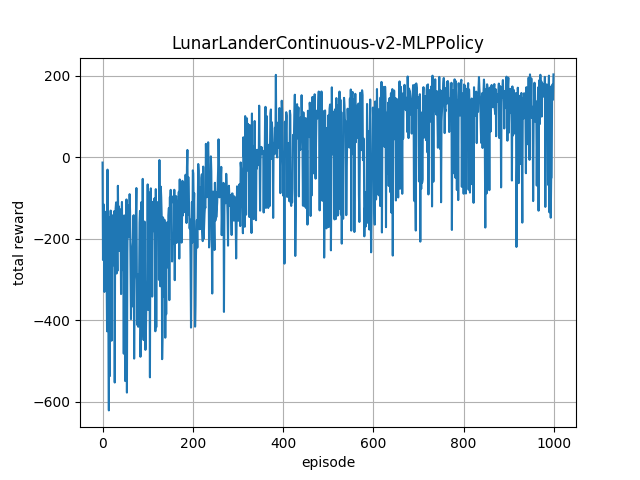
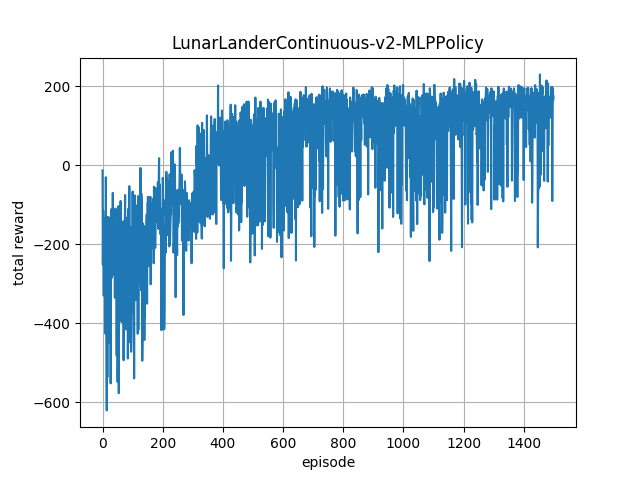
Tru new hyperparameter.

diff --git a/rl_toolbox/policy/shared.py b/rl_toolbox/policy/shared.py
@@ -57,20 +57,20 @@ class VAEPolicy(nn.Module):
         self.log_std_head = nn.Parameter(torch.zeros(output_shape[0]))
         self.value_head = nn.Linear(z_size, 1)
 
-        self.mean_head.apply(orthogonal_init([nn.Linear], 'linear'))
-        self.value_head.apply(orthogonal_init([nn.Linear], 'linear'))
+        # self.mean_head.apply(orthogonal_init([nn.Linear], 'linear'))
+        # self.value_head.apply(orthogonal_init([nn.Linear], 'linear'))
 
     def forward(self, x):
         with torch.no_grad():
             feature, _, _ = self.visual.encode(x)
 
-        mean = self.mean_head(feature)
+        mean = self.mean_head(feature.detach())
         std = self.log_std_head.expand_as(mean).exp()
 
         self.pd = Normal(mean, std)
         action = self.pd.sample() if self.training else mean
 
-        value = self.value_head(feature)
+        value = self.value_head(feature.detach())
 
         return action, value
 
@@ -123,7 +123,7 @@ class VAELSTMPolicy(nn.Module):
 
     @property
     def num_steps(self):
-        return 1
+        return 8
 
     @property
     def recurrent(self):
@@ -146,7 +146,7 @@ class CNNPolicy(nn.Module):
         self.mean_head = nn.Linear(size, output_shape[0])
         self.log_std_head = nn.Parameter(torch.zeros(output_shape[0]))
         self.value_head = nn.Linear(size, 1)
-        #
+
         # self.cnn.apply(orthogonal_init([nn.Linear], 'relu'))
         # self.mean_head.apply(orthogonal_init([nn.Linear], 'linear'))
         # self.value_head.apply(orthogonal_init([nn.Linear], 'linear'))
@@ -209,7 +209,7 @@ class CNNLSTMPolicy(nn.Module):
 
     @property
     def num_steps(self):
-        return 4
+        return 8
 
     @property
     def recurrent(self):
@@ -306,7 +306,7 @@ class MLPLSTMPolicy(nn.Module):
 
     @property
     def num_steps(self):
-        return 4
+        return 8
 
     @property
     def recurrent(self):

diff --git a/05_train_combined_policy.py b/05_train_combined_policy.py
@@ -1,31 +1,33 @@
 from rl_toolbox import Runner
 from rl_toolbox.agent import PPOAgent
-from rl_toolbox.policy import VAEPolicy, VAELSTMPolicy
+from rl_toolbox.policy import VAEPolicy
 
 
 def main():
-    for i in range(2, 12, 2):
-        runner = Runner(
-            'CarRacing-v0',
-            PPOAgent,
-            VAEPolicy,
-            record_data=False,
-            data_path=None,
-            save=True,
-            load=(i > 2),
-            weight_path='./weights/')
-
-        runner.run({'abs_output_limit': i / 10}, num_episode=500, continue_plot=(i < 12))
+    # for i in range(4, 12, 2):
+    #     runner = Runner(
+    #         'CarRacing-v0',
+    #         PPOAgent,
+    #         VAEPolicy,
+    #         record_data=False,
+    #         data_path=None,
+    #         save=True,
+    #         load=(i > 4),
+    #         weight_path='./weights/')
+    #
+    #     runner.run(abs_output_limit=[1, i / 10, 1], num_episode=100, continue_plot=(i < 12))
 
     runner = Runner(
         'CarRacing-v0',
         PPOAgent,
-        VAELSTMPolicy,
-        save=True,
+        VAEPolicy,
+        record_data=False,
+        data_path=None,
+        save=False,
         load=True,
         weight_path='./weights/')
 
-    runner.run()
+    runner.run(abs_output_limit=[1, 0.6, 1],num_episode=500)
 
 
 if __name__ == '__main__':

diff --git a/01_train_cnn_policy.py b/01_train_cnn_policy.py
@@ -1,33 +1,33 @@
 from rl_toolbox import Runner
 from rl_toolbox.agent import PPOAgent
-from rl_toolbox.policy import CNNLSTMPolicy, CNNPolicy
+from rl_toolbox.policy import CNNPolicy
 
 
 def main():
-    for i in range(2, 12, 2):
-        runner = Runner(
-            'CarRacing-v0',
-            PPOAgent,
-            CNNPolicy,
-            record_data=False,
-            data_path=None,
-            save=True,
-            load=(i > 2),
-            weight_path='./weights/')
-
-        runner.run(abs_output_limit=[1, i / 10, 1], num_episode=i * 100, continue_plot=(i < 12))
+    # for i in range(4, 12, 2):
+    #     runner = Runner(
+    #         'CarRacing-v0',
+    #         PPOAgent,
+    #         CNNPolicy,
+    #         record_data=False,
+    #         data_path=None,
+    #         save=True,
+    #         load=(i > 4),
+    #         weight_path='./weights/')
+    #
+    #     runner.run(abs_output_limit=[1, i / 10, 1], num_episode=100, continue_plot=(i < 12))
 
     runner = Runner(
         'CarRacing-v0',
         PPOAgent,
-        CNNLSTMPolicy,
+        CNNPolicy,
         record_data=False,
         data_path=None,
         save=True,
         load=False,
         weight_path='./weights/')
 
-    runner.run()
+    runner.run(abs_output_limit=[1, 0.6, 1],num_episode=500)
 
 
 if __name__ == '__main__':

diff --git a/test_mlp_ppo.py b/test_mlp_ppo.py
@@ -1,22 +1,21 @@
 from rl_toolbox import Runner
 from rl_toolbox.agent import PPOAgent
-from rl_toolbox.policy import MLPLSTMPolicy, MLPPolicy
+from rl_toolbox.policy import MLPPolicy
 
 
 def main():
-    for policy_fn in (MLPPolicy, MLPLSTMPolicy):
-        runner = Runner(
-            'LunarLanderContinuous-v2',
-            PPOAgent,
-            policy_fn,
-            record_data=False,
-            data_path=None,
-            save=True,
-            load=False,
-            weight_path='./weights/')
+    runner = Runner(
+        'LunarLanderContinuous-v2',
+        PPOAgent,
+        MLPPolicy,
+        record_data=False,
+        data_path=None,
+        save=True,
+        load=False,
+        weight_path='./weights/')
 
-        runner.run(num_episode=1000)
-        # runner.run({'use_gpu': False}, num_episode=1000)  # For debug.
+    runner.run(num_episode=2000)
+    # runner.run({'use_gpu': False}, num_episode=1000)  # For debug.
 
 
 if __name__ == '__main__':

diff --git a/rl_toolbox/agent/ppo.py b/rl_toolbox/agent/ppo.py
@@ -13,12 +13,12 @@ class PPOAgent(Agent):
         default_kwargs = {
             'train': True,
             'use_gpu': True,
-            'horizon': 512,
-            'buffer_size': 4,
-            'lr': 3e-4,
-            'num_epoch': 10,
-            'batch_size': 64,
-            'clip_range': 0.2,
+            'horizon': 128,
+            'buffer_size': 8,
+            'lr': 2.5e-4,
+            'num_epoch': 3,
+            'batch_size': 32*8,
+            'clip_range': 0.1,
             'vf_coeff': 1,
             'discount_factor': 0.99,
             'gae_parameter': 0.95,

diff --git a/04_convert_weights.py b/04_convert_weights.py
@@ -17,10 +17,12 @@ parser.add_argument('--out-path', type=str, default='./weights/', metavar='N',
 
 args = parser.parse_args()
 
+print('Make VAELSTMPolicy weights.')
 model = VAELSTMPolicy((96, 96, 3), (3,))
 model.visual.load_state_dict(torch.load(args.vae_path))
 torch.save(model.state_dict(), args.out_path + model.name + '_weights.pth')
 
+print('Make VAEPolicy weights.')
 model = VAEPolicy((96, 96, 3), (3,))
 model.visual.load_state_dict(torch.load(args.vae_path))
 torch.save(model.state_dict(), args.out_path + model.name + '_weights.pth')

diff --git a/rl_toolbox/runner.py b/rl_toolbox/runner.py
@@ -88,7 +88,6 @@ class Runner(object):
                 if d:
                     reward_history.append(total_reword)
                     print('--------------------------------------')
-                    print('- PID:{}'.format(os.getpid()))
                     print('- Done.\tEpisode:{}\tStep:{}'.format(episode, step))
                     print('- Total reward:\t{:.6}'.format(total_reword))
                     if self.save and ((episode + 1) % save_interval == 0):

diff --git a/README.md b/README.md
@@ -6,27 +6,24 @@ Try to implement some RL related algorithm in PyTorch.
 
 | VAE
 |-----
-| <img src="image/vae_reconstruction.png"/>
+| <img src="image/vae_reconstruction_15.png"/>
 
 ### 1.1 LunarLanderContinuous
 
-| MLP policy | MLP LSTM policy
-|------------|----------------
-| <img src="image/LunarLanderContinuous-v2-MLPPolicy.png" width="300"/> | <img src="image/LunarLanderContinuous-v2-MLPLSTMPolicy.png" width="300"/>
+| MLP policy
+|-----------
+| <img src="image/LunarLanderContinuous-v2-MLPPolicy.png" width="300"/>
 
 ### 1.2 CarRacing
 
-| CNN policy | CNN LSTM policy
-|------------|-----------------
-| <img src="image/CarRacing-v0-CNNPolicy.png" width="300"/> | <img src="image/CarRacing-v0-CNNLSTMPolicy.png" width="300"/>
+| CNN policy
+|-----------
+| <img src="image/CarRacing-v0-CNNPolicy.png" width="300"/>
 
 | Visual policy
-|---------------------
+|--------------
 | <img src="image/" width="300"/>
 
-| Visual Memory policy
-|---------------------
-| <img src="image/" width="300"/>
 
 
 ## 2. Setup
@@ -84,6 +81,8 @@ Make LSTM better(or correct).
 [openai/baselines](https://github.com/openai/baselines)
 
 [World Models](https://worldmodels.github.io/)
+
+[Training-PPO](https://github.com/Unity-Technologies/ml-agents/blob/master/docs/Training-PPO.md)
 
 ## License
 This project is released under MIT License. Please review [License](LICENSE) file for more details.
